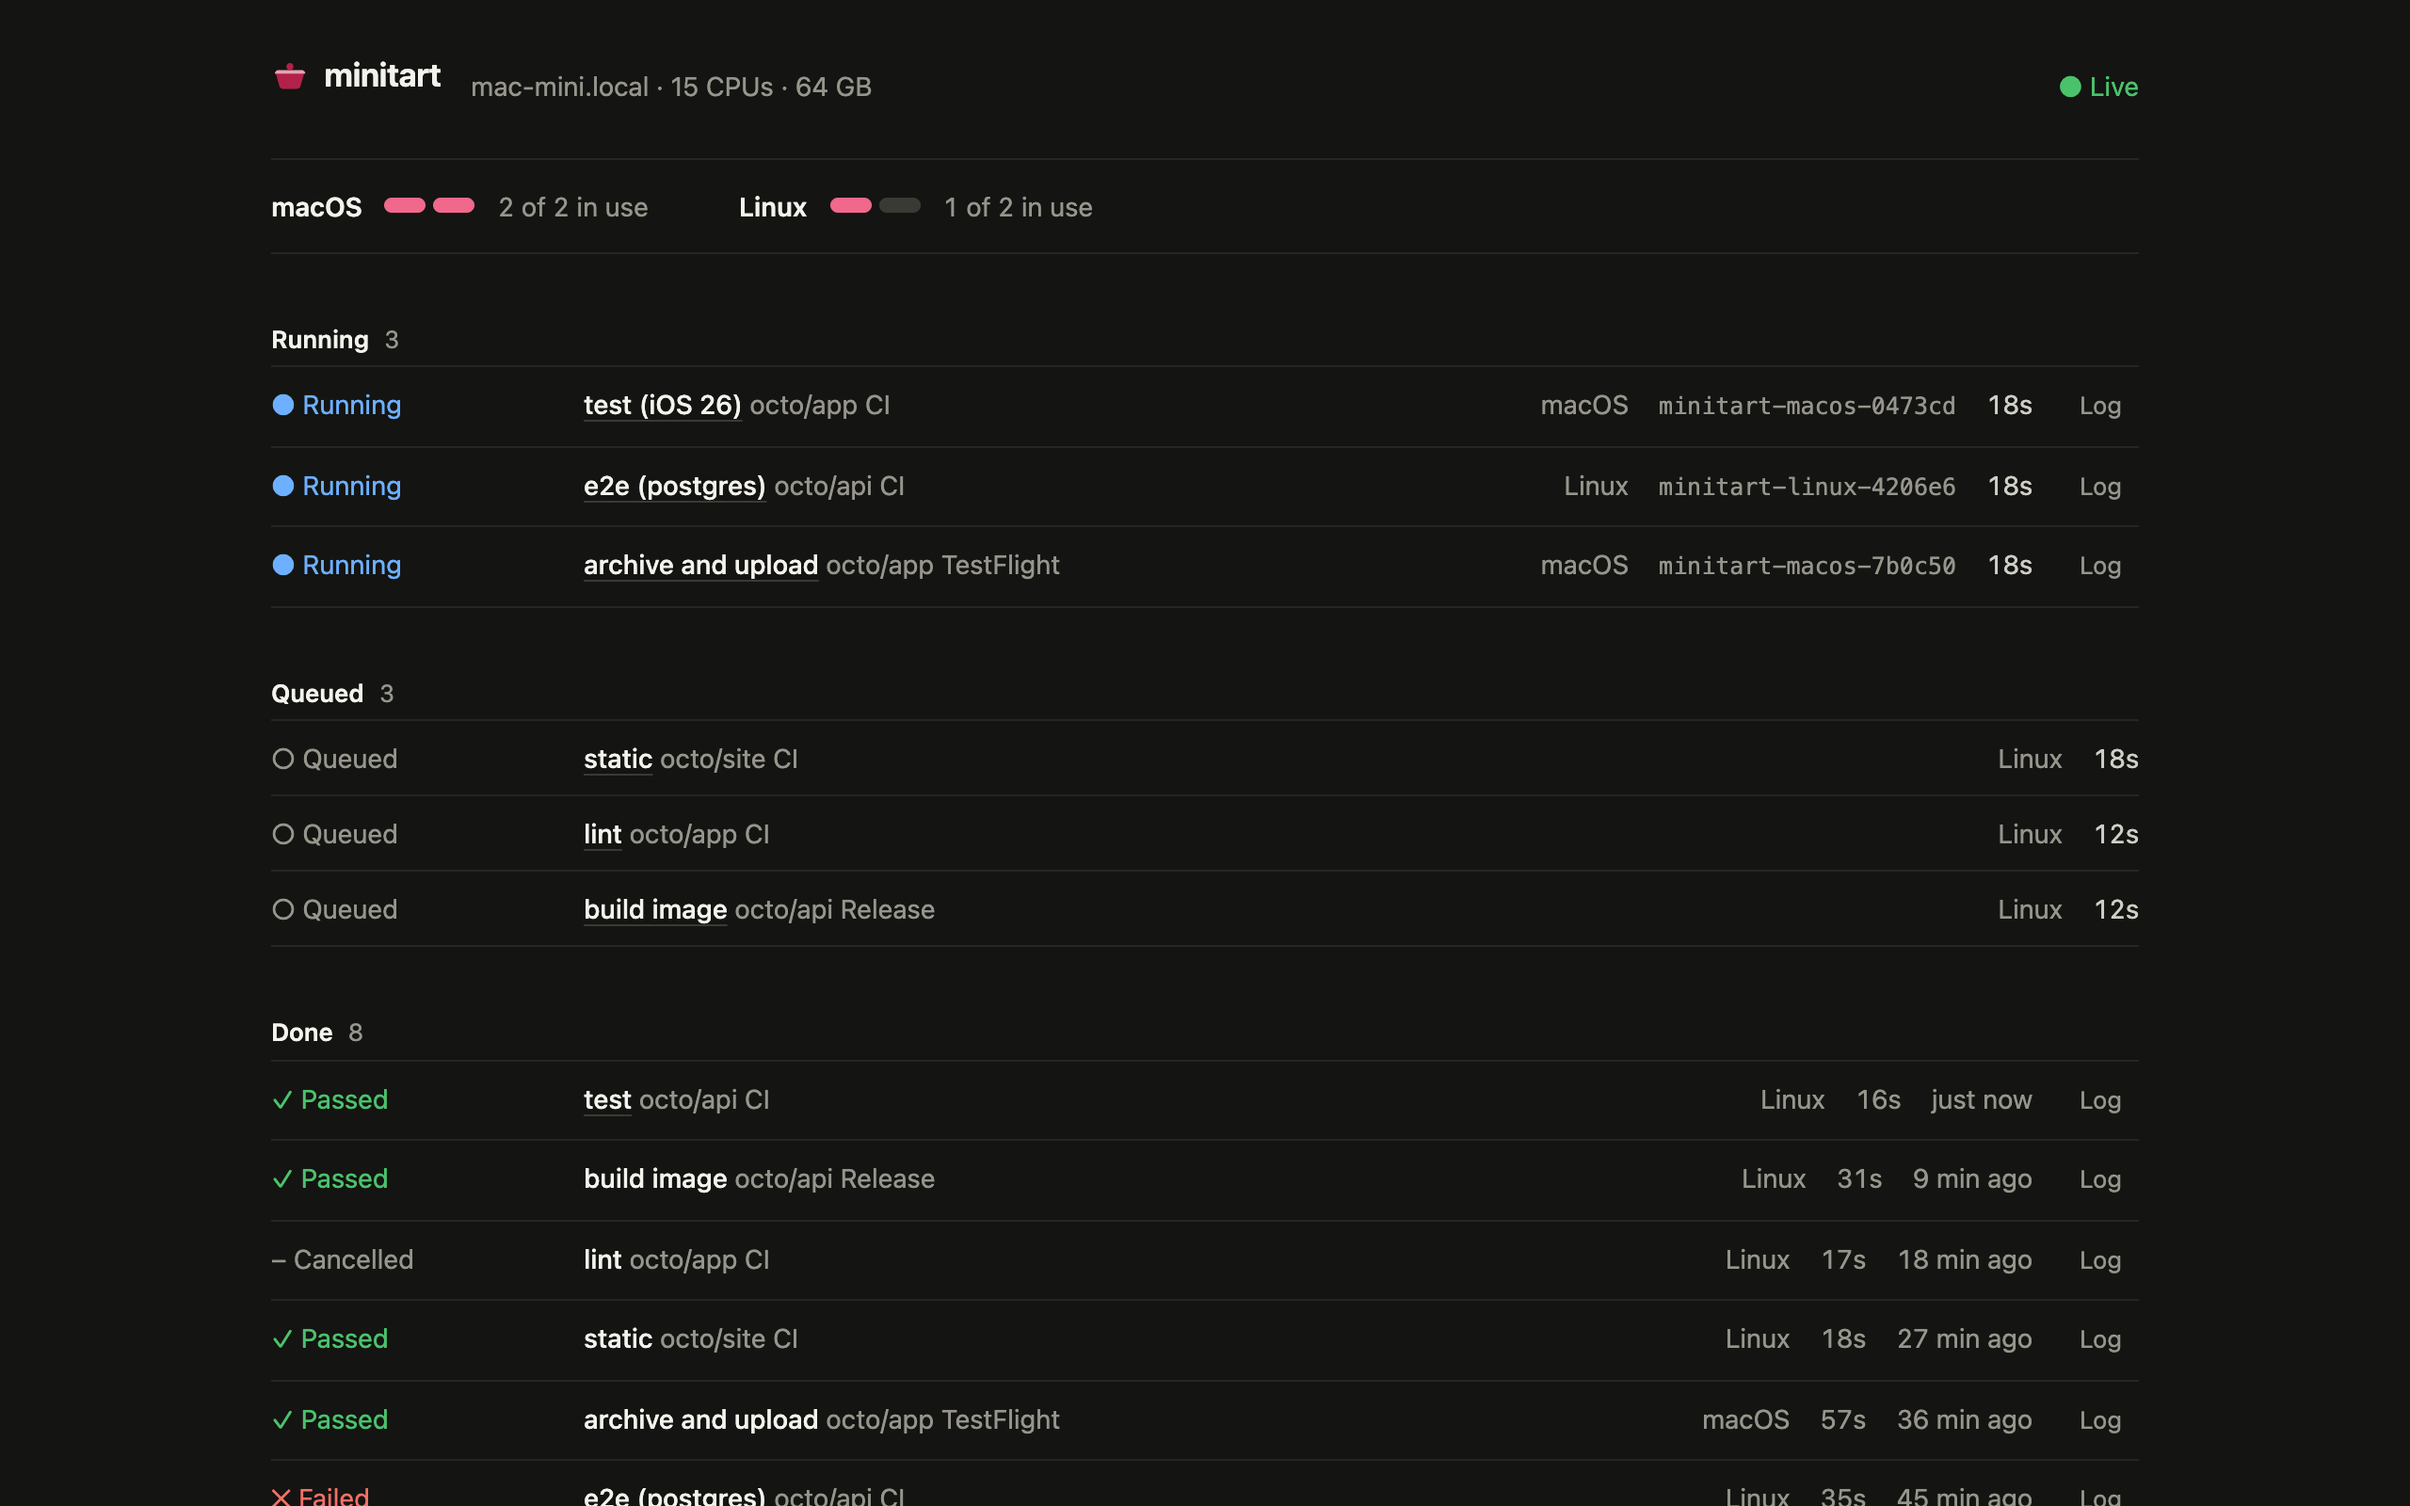
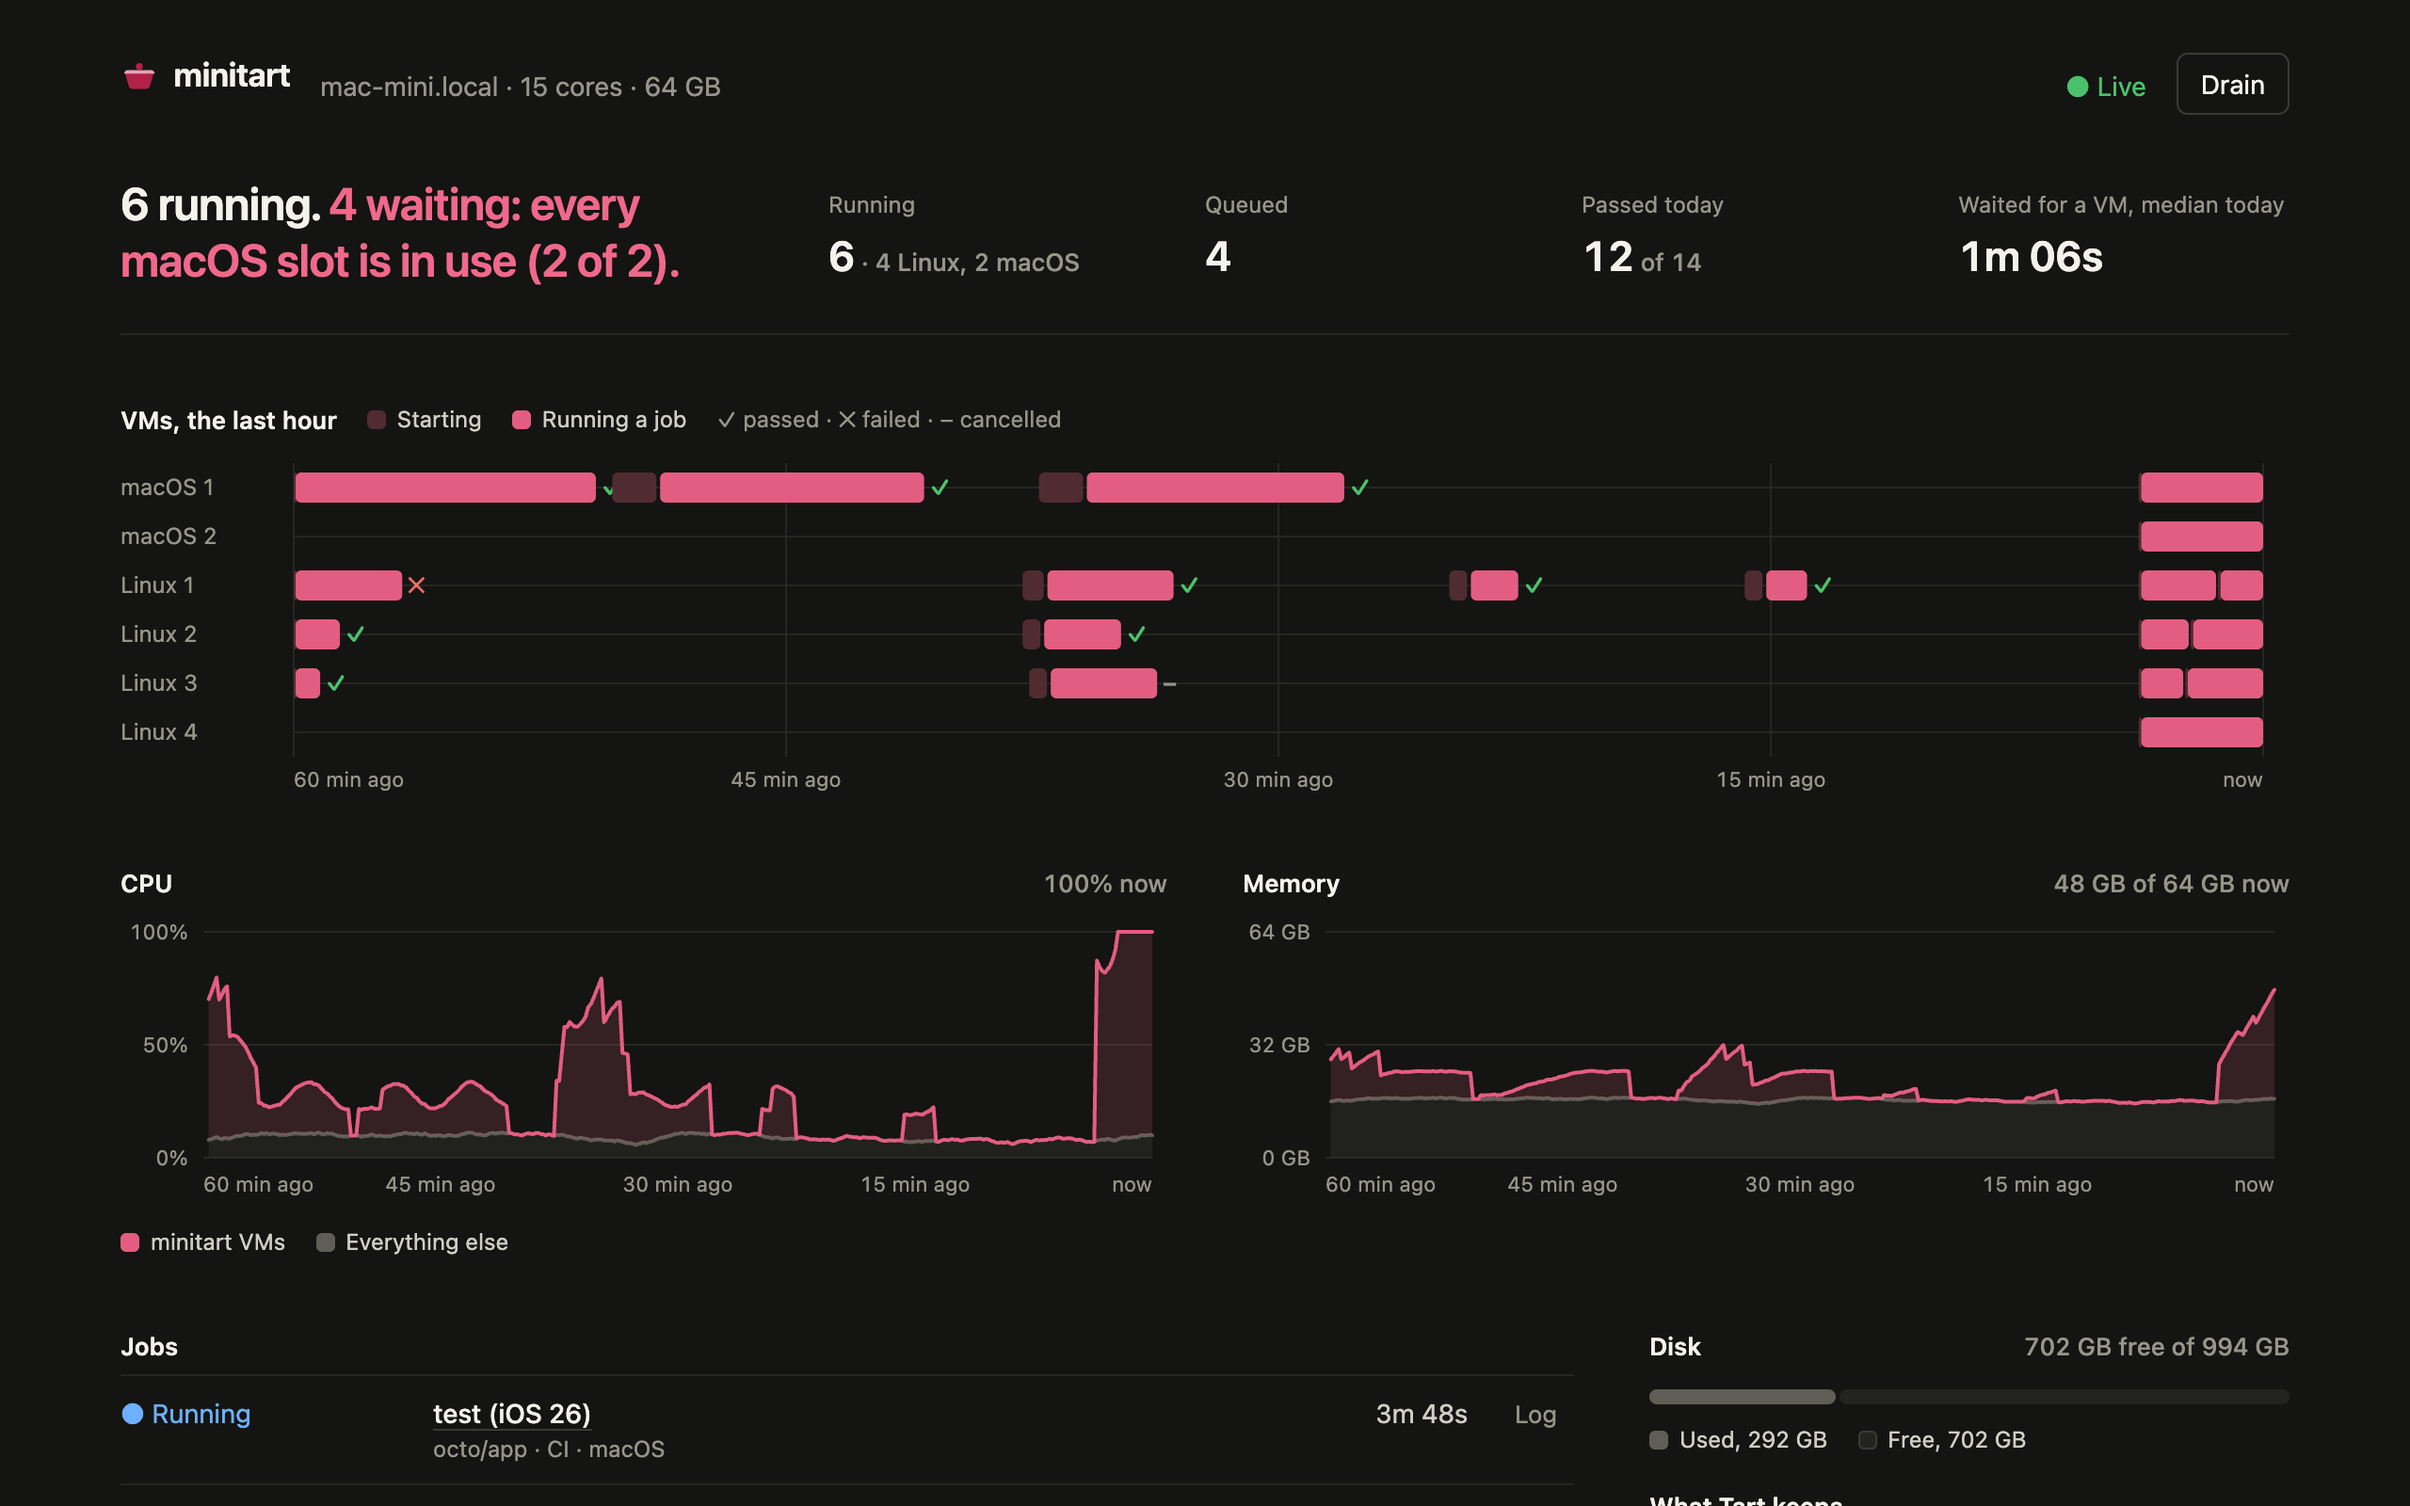
Fix what the review found, and show the new dashboard in the README and on the site
The sampler skips a point when ps fails instead of recording the VMs as gone, and
measures each Tart folder on its own so that one not built yet leaves out only
itself. What the headline leaves out is said as a line under it. The charts span
the hour, and the slot note quotes how many VMs there are.

diff --git a/dashboard/app.js b/dashboard/app.js
@@ -110,22 +110,32 @@ function render() {
   $('machine').textContent =
     `${state.machine.name} · ${state.machine.cpus} cores · ${Math.round(state.machine.memoryBytes / GB)} GB`;
 
-  // Said always, whatever else is going on: jobs can reach the LAN.
-  $('alerts').replaceChildren(
-    ...(state.network === 'shared'
-      ? [
-          h(
-            'p',
-            { class: 'alert' },
-            status('fix', 'Started with --unsafe-shared-network: jobs can reach your LAN.'),
-          ),
-        ]
-      : []),
-  );
   $('setup').hidden = state.app !== null || state.repos.length > 0;
   $('drain').textContent = state.draining ? 'Resume' : 'Drain';
 
   const said = headline(state);
+  // The headline says the most important thing; whatever else needs the owner is said here.
+  const words = `${said.lead} ${said.point ?? ''}`.toLowerCase();
+  const alerts = [];
+  if (state.network === 'shared') {
+    alerts.push('Started with --unsafe-shared-network: jobs can reach your LAN.');
+  }
+  if (state.blocked && !words.includes(state.blocked.toLowerCase())) {
+    alerts.push(`No VM is started until this is put right. ${state.blocked}`);
+  }
+  if (state.githubError && !words.includes(state.githubError.toLowerCase())) {
+    alerts.push(`GitHub: ${state.githubError}`);
+  }
+  if (state.draining && said.lead !== 'Draining.') {
+    alerts.push('Draining: the jobs that are running finish, and no new one starts.');
+  }
+  if (state.shortOfMemory && !words.includes(state.shortOfMemory.toLowerCase())) {
+    alerts.push(`${state.shortOfMemory}: jobs wait until there is room.`);
+  }
+  $('alerts').replaceChildren(
+    ...alerts.map((text) => h('p', { class: 'alert' }, status('fix', text))),
+  );
+
   $('headline').replaceChildren(
     said.lead,
     said.point ? ' ' : '',
@@ -308,6 +318,9 @@ function drawResources() {
   if (!resources) return;
   const points = resources.points;
   const times = points.map((point) => point.at);
+  // The hour up to the newest point, as the timeline shows it, however few points there are.
+  const to = points.at(-1)?.at ?? Date.now();
+  const span = { from: to - HOUR, to };
   const last = points.at(-1);
   const memoryGb = Math.round(resources.memoryBytes / GB);
   $('cpu-now').textContent = last ? `${Math.round(last.cpuVms + last.cpuOther)}% now` : '';
@@ -320,6 +333,7 @@ function drawResources() {
   ];
   if (!inUse($('cpu'))) {
     areaChart($('cpu'), {
+      ...span,
       times,
       series: series(
         (point) => point.cpuVms,
@@ -334,6 +348,7 @@ function drawResources() {
   }
   if (!inUse($('memory'))) {
     areaChart($('memory'), {
+      ...span,
       times,
       series: series(
         (point) => point.memVms,

diff --git a/src/resources.test.ts b/src/resources.test.ts
@@ -59,6 +59,7 @@ function mac() {
     available: (40 * 1024) as number | null,
     processes: new Map<number, { name: string; seconds: number; rss: number }>(),
     lsofCalls: 0,
+    failPs: false,
     du: '' as string | null,
     statfsPaths: [] as string[],
   };
@@ -77,6 +78,7 @@ function mac() {
     },
     run: async (command, args) => {
       if (command === 'ps') {
+        if (world.failPs) return null;
         return [...world.processes]
           .map(([pid, p]) => `${pid} 0:${p.seconds.toFixed(2)} ${p.rss / 1024} ${VZ}`)
           .join('\n');
@@ -86,7 +88,11 @@ function mac() {
         const vm = world.processes.get(Number(args.at(-1)));
         return vm ? `p1\nn/t/vms/${vm.name}/disk.img\n` : null;
       }
-      if (command === 'du') return world.du;
+      if (command === 'du') {
+        // As `du` does: a path that is not there fails the call.
+        const line = world.du?.split('\n').find((one) => one.endsWith(`\t${args.at(-1)}`));
+        return line === undefined ? null : `${line}\n`;
+      }
       return null;
     },
   };
@@ -172,6 +178,35 @@ test('disk: the data volume, and what Tart keeps of each image and of its downlo
   world.now += STEP_MS;
   await resources.sample();
   assert.equal(resources.view().disk?.tart.length, 3);
+});
+
+test('an image not built yet leaves out only itself', async () => {
+  const { world, resources } = mac();
+  world.du = `5000000\t/t/vms/minitart-base-linux\n100\t/t/cache\n`;
+  await resources.sample();
+  assert.deepEqual(
+    resources.view().disk?.tart.map((entry) => entry.name),
+    ['minitart-base-linux', 'Downloaded images'],
+  );
+});
+
+test('a ps that fails adds no point and forgets no VM', async () => {
+  const { world, resources } = mac();
+  world.processes.set(7, { name: 'minitart-linux-0a1b2c', seconds: 10, rss: GB });
+  await resources.sample();
+  world.now += STEP_MS;
+  world.total += 100;
+  world.failPs = true;
+  await resources.sample();
+  assert.equal(resources.view().points.length, 0);
+  world.failPs = false;
+  world.now += STEP_MS;
+  world.busy += 50;
+  world.total += 100;
+  world.processes.get(7)!.seconds += 20;
+  await resources.sample();
+  assert.equal(resources.view().points[0]?.cpuVms, 10, 'its CPU counts from before the failure');
+  assert.equal(world.lsofCalls, 1, 'and it was not asked about again');
 });
 
 test('memory not known from macOS is not made up', async () => {

diff --git a/src/resources.ts b/src/resources.ts
@@ -155,7 +155,9 @@ export class Resources {
     const at = this.#deps.now();
     const cpu = this.#deps.cpuTimes();
     const ps = await this.#deps.run('ps', ['-axo', 'pid=,time=,rss=,comm=']);
-    const processes = ps === null ? [] : vmProcesses(ps);
+    // Not knowing the VMs is not the same as there being none: no point, and nothing forgotten.
+    if (ps === null) return;
+    const processes = vmProcesses(ps);
     const alive = new Set(processes.map((vm) => vm.pid));
     for (const pid of this.#names.keys()) if (!alive.has(pid)) this.#names.delete(pid);
     for (const vm of processes) {
@@ -208,8 +210,12 @@ export class Resources {
       ...images.map((name) => join(this.#deps.tartHome, 'vms', name)),
       join(this.#deps.tartHome, 'cache'),
     ];
-    const du = await this.#deps.run('du', ['-sk', ...paths]);
-    const sizes = du === null ? new Map<string, number>() : duSizes(du);
+    // One at a time: `du` fails on the lot when one of them is missing (an image not built).
+    const sizes = new Map<string, number>();
+    for (const path of paths) {
+      const du = await this.#deps.run('du', ['-sk', path]);
+      for (const [where, bytes] of du === null ? [] : duSizes(du)) sizes.set(where, bytes);
+    }
     const tart = [
       ...images.map((name) => ({ name, bytes: sizes.get(join(this.#deps.tartHome, 'vms', name)) })),
       { name: 'Downloaded images', bytes: sizes.get(join(this.#deps.tartHome, 'cache')) },

diff --git a/dashboard/charts.js b/dashboard/charts.js
@@ -65,13 +65,11 @@ function placeTip(tip, x, width) {
  * A stacked area chart of the last hour, with a crosshair whose tooltip lists every series
  * at the pointer. `series`, bottom up: `{ name, values, color }`, `color` 'vm' or 'other'.
  */
-export function areaChart(root, { times, series, max, ticks, format, height, label }) {
+export function areaChart(root, { from, to, times, series, max, ticks, format, height, label }) {
   sized(root, (width) => {
     const m = { top: 8, right: 8, bottom: 22, left: 44 };
     const w = width - m.left - m.right;
     const ht = height - m.top - m.bottom;
-    const from = times[0] ?? 0;
-    const to = times.at(-1) ?? 1;
     const minutes = Math.round((to - from) / 60_000);
     const x = (t) => m.left + ((t - from) / Math.max(1, to - from)) * w;
     const y = (v) => m.top + ht - (Math.min(v, max) / max) * ht;

diff --git a/src/demo.ts b/src/demo.ts
@@ -161,10 +161,12 @@ export function demoWorld(machine: Machine): {
       }
     }
     wobble = Math.max(-1, Math.min(1, wobble + (Math.random() - 0.5) * 0.4));
+    const other = 8 + wobble * 3;
     return {
       at: time,
-      cpuVms: Math.round(Math.min(96, (busyCores / cores) * 100) * 10) / 10,
-      cpuOther: Math.round((8 + wobble * 3) * 10) / 10,
+      // The whole Mac is 100%: the VMs get what the rest leaves.
+      cpuVms: Math.round(Math.min(100 - other, (busyCores / cores) * 100) * 10) / 10,
+      cpuOther: Math.round(other * 10) / 10,
       memVms: Math.round(gb * 1024),
       memOther: Math.round(Math.min(totalGb - gb, 16 + wobble) * 1024),
     };

diff --git a/src/manager.ts b/src/manager.ts
@@ -473,7 +473,7 @@ export class Manager {
           if (this.#short !== null) job.note = `${this.#short}: the job waits until there is room`;
         } else if (limits[job.pool] > 0) {
           const kind = job.pool === 'macos' ? 'macOS' : 'Linux';
-          job.note = `Every ${kind} slot is in use (${limits[job.pool]} of ${limits[job.pool]})`;
+          job.note = `Every ${kind} slot is in use (${count[job.pool]} of ${limits[job.pool]})`;
         }
       }
     }

diff --git a/dashboard/style.css b/dashboard/style.css
@@ -315,7 +315,7 @@ button.quiet:hover {
 
 .hero {
   display: grid;
-  grid-template-columns: minmax(0, 1.4fr) repeat(4, minmax(0, 1fr));
+  grid-template-columns: minmax(0, 2fr) repeat(4, minmax(0, 1fr));
   gap: 24px;
   align-items: end;
   margin-top: 12px;

diff --git a/docs/decisions/D23-what-the-dashboard-leads-with.md b/docs/decisions/D23-what-the-dashboard-leads-with.md
@@ -52,5 +52,9 @@ whether the slots were full, and what starting a VM costs, which no GitHub page 
 ## Consequences
 
 - The charts start empty after a restart, and fill in over the first hour.
+- Whatever else needs the owner, beyond what the headline says, is a line under it: GitHub
+  failing while the Mac is not closed, say, or draining while jobs wait.
+- Today's figures count what the history keeps, the last 200 jobs. A day of more counts
+  only its last 200.
 - A VM of the owner's own, or one `image build` runs, counts as everything else.
 - Slot pips are gone: the timeline's lanes are the slots.
